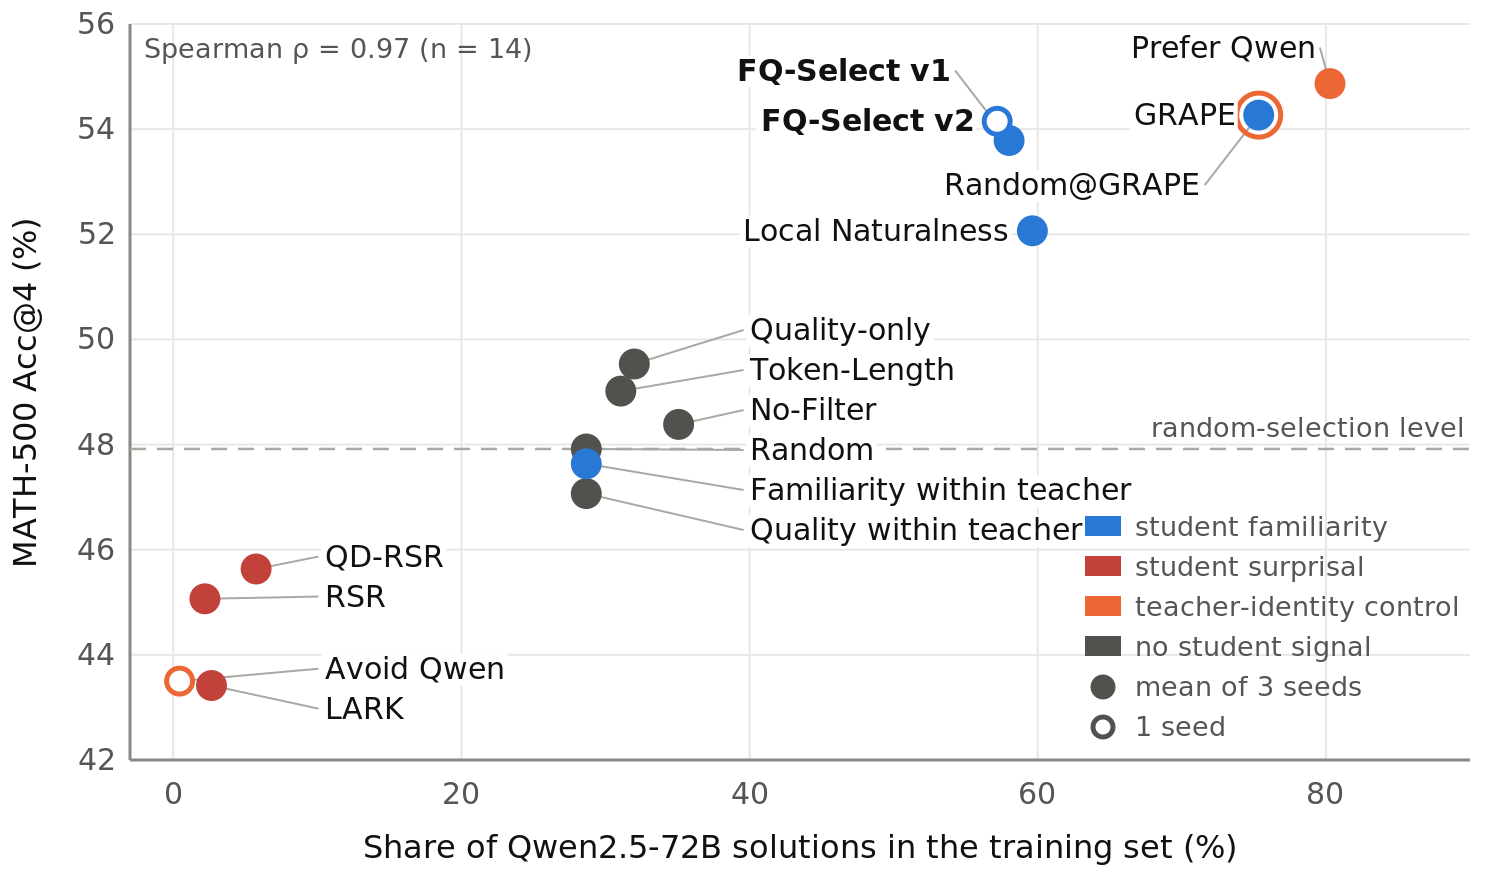
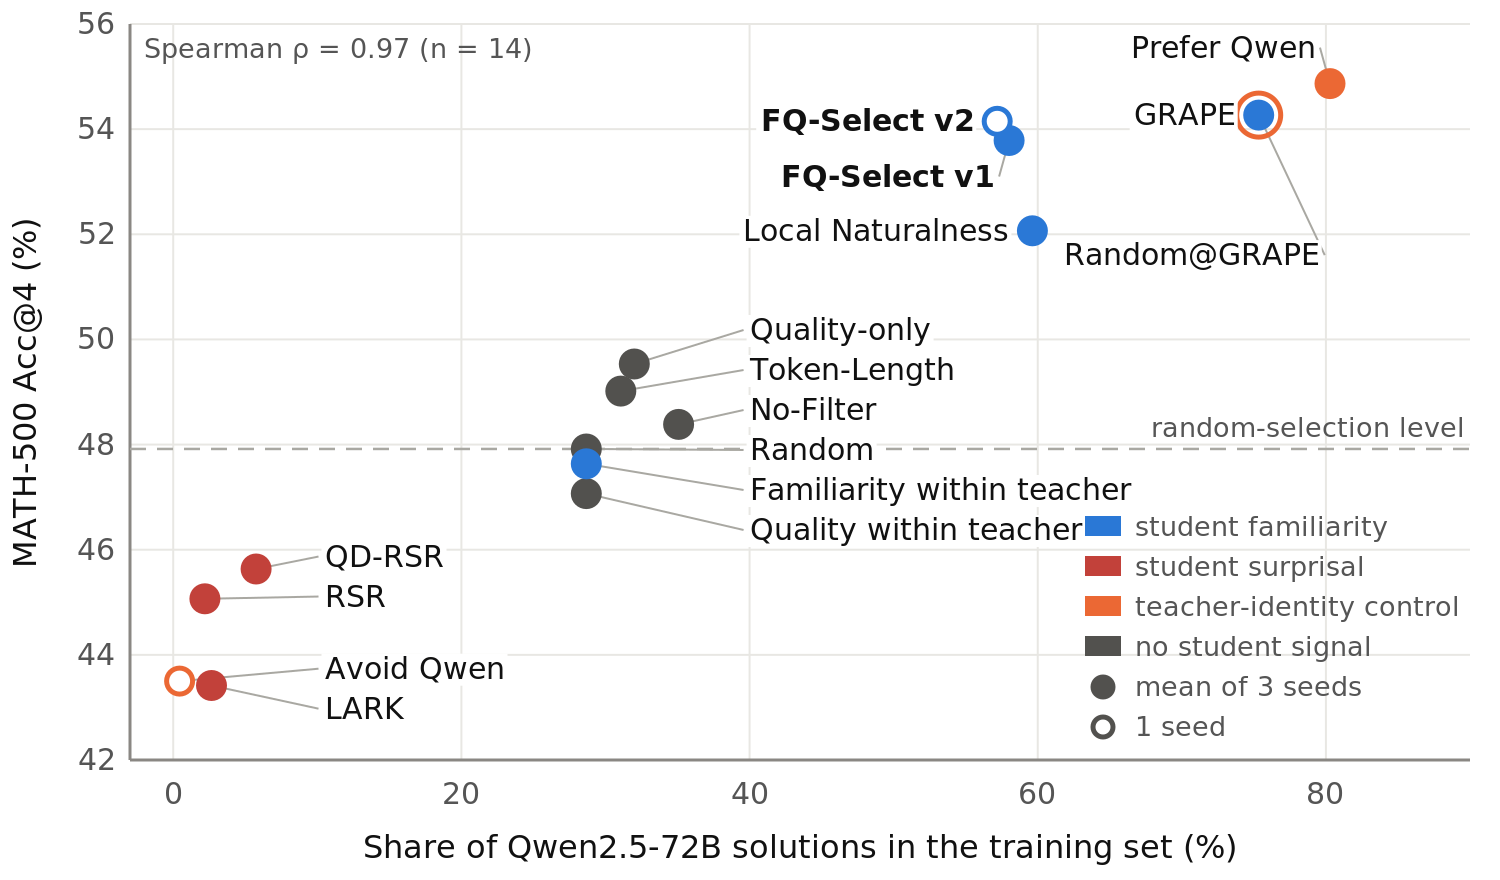
Hình 2: đường dẫn nhãn không đi qua chấm khác (FQ-Select v1)

Changed region(s): [[0.5213, 0.1841, 0.7973, 0.2455], [0.7053, 0.2761, 0.8893, 0.3068], [0.4907, 0.0614, 0.644, 0.092]]

diff --git a/src/tools/make_figures.py b/src/tools/make_figures.py
@@ -713,6 +713,20 @@ def build_teacher_share(rows: Sequence[Mapping], lang: str = "en") -> str:
         return (x >= L + 4 and x + w <= L + pw and y >= T and y + h <= T + ph and
                 not any(x < ox + ow and ox < x + w and y < oy + oh and oy < y + h for ox, oy, ow, oh in boxes))
 
+    def crosses(px: float, py: float, ex: float, ey: float) -> bool:
+        """Đường dẫn từ điểm (px, py) tới nhãn có đi qua chấm của điểm khác không. Sửa 15/11: nhãn FQ-Select v1
+        từng có đường dẫn chạy xuyên chấm rỗng của FQ-Select v2, người đọc dễ hiểu nhầm nhãn thuộc chấm nào."""
+        dx, dy = ex - px, ey - py
+        n = dx * dx + dy * dy
+        for r in pts:
+            qx, qy = X(r["share"]), Y(r["acc"])
+            if abs(qx - px) < 8 and abs(qy - py) < 8:
+                continue                                  # chính điểm đó, hoặc điểm trùng tọa độ
+            t = 0.0 if n == 0 else max(0.0, min(1.0, ((qx - px) * dx + (qy - py) * dy) / n))
+            if (px + t * dx - qx) ** 2 + (py + t * dy - qy) ** 2 < 20 ** 2:
+                return True
+        return False
+
     placed = []
     gap = 40
     for lo_s, hi_s, col_x in ((-1.0, 15.0, X(10.5)), (15.0, 45.0, X(40.0))):
@@ -732,16 +746,17 @@ def build_teacher_share(rows: Sequence[Mapping], lang: str = "en") -> str:
             w = text_width(r[lang], FS, r["tag"] in OURS)
             placed.append((r, col_x, y, "start"))
             boxes.append((col_x, y - 26, w, 34))
-    for r in sorted([r for r in pts if r["share"] >= 45], key=lambda r: -r["acc"]):
+    # Random@GRAPE trùng tọa độ GRAPE nên xếp nhãn sau cùng, để các nhãn khác không phải nhường chỗ (sửa 15/11)
+    for r in sorted([r for r in pts if r["share"] >= 45], key=lambda r: (r["tag"] == "random_at_grape.k3", -r["acc"])):
         px, py = X(r["share"]), Y(r["acc"])
         w = text_width(r[lang], FS, r["tag"] in OURS)
         cands = [(px - 24, py + 10, "end"), (px + 24, py + 10, "start"), (px - 16, py - 26, "end"),
                  (px + 16, py - 26, "start"), (px - 16, py + 46, "end"), (px + 16, py + 46, "start"),
                  (px - 60, py - 60, "end"), (px + 60, py - 60, "start"), (px - 60, py + 80, "end"),
-                 (px + 60, py + 80, "start")]
+                 (px + 60, py + 80, "start"), (px + 40, py + 120, "end"), (px + 60, py + 150, "end")]
         for cx, cy, anc in cands:
             bx = (cx if anc == "start" else cx - w, cy - 26, w, 34)
-            if fits(bx):
+            if fits(bx) and not crosses(px, py, cx + (-6 if anc == "start" else 6), cy - 10):
                 break
         placed.append((r, cx, cy, anc))
         boxes.append(bx)
